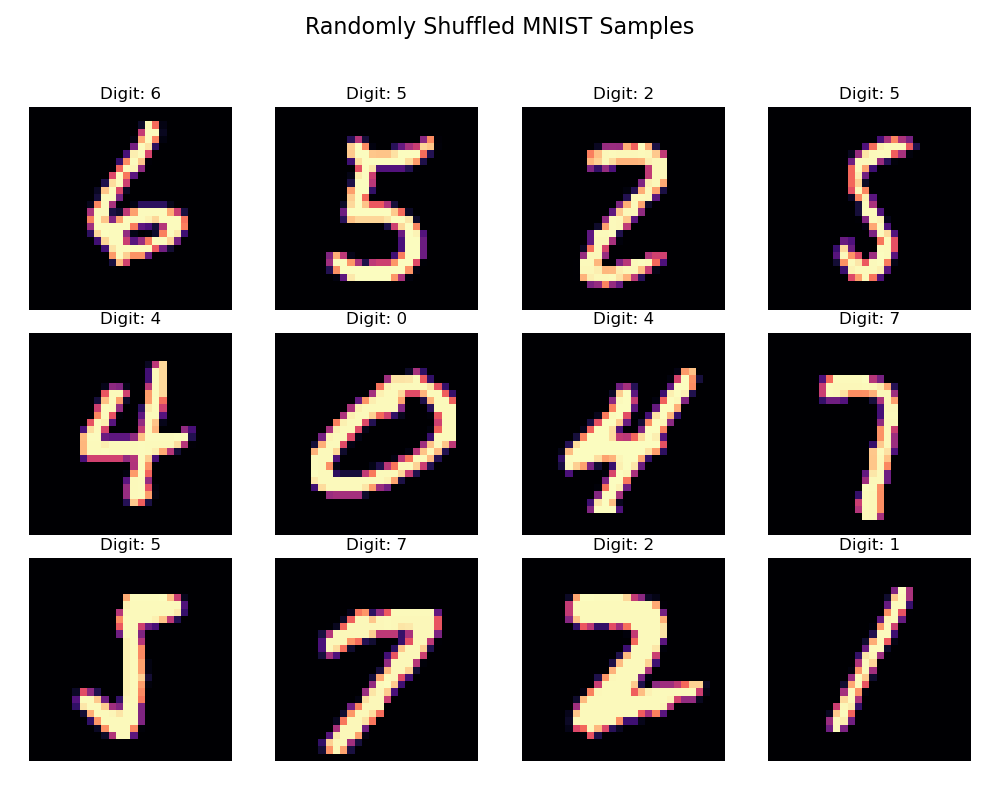
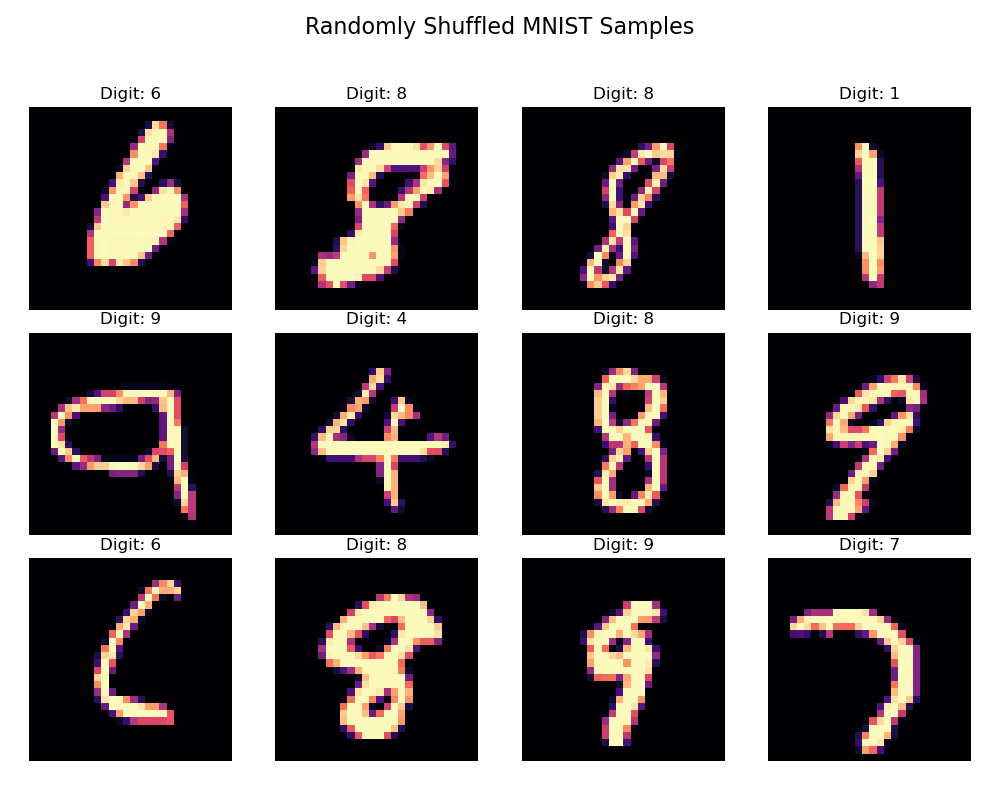
Update exam-preparation

diff --git a/assignments/assignment-02/src/generate_mnist_csv.py b/assignments/assignment-02/src/generate_mnist_csv.py
@@ -4,7 +4,7 @@
 #   - data generation, 
 #   - CSV creation, and 
 #   - visualization.
-
+# %%
 import pandas as pd
 import numpy as np
 import matplotlib.pyplot as plt
@@ -12,6 +12,7 @@ from sklearn.datasets import fetch_openml
 from sklearn.utils import shuffle
 from pathlib import Path  # <--- Step 1: Import Path
 
+# %%
 def generate_mnist_csv(df, n_per_digit, output_filename):
 
     subsets = []
@@ -67,6 +68,7 @@ def visualize_shuffled_png(csv_filename, png_output_name):
     plt.close() # Close plot to free up memory on the cluster
     print(f"Shuffled visualization saved to '{png_output_name}'")
 
+# %%
 output_dir = Path("./data")
 output_dir.mkdir(parents=True, exist_ok=True)
 